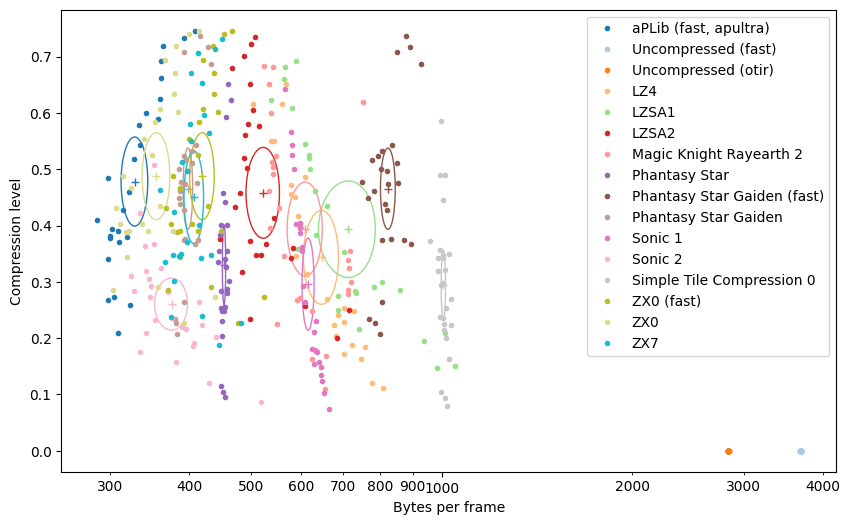
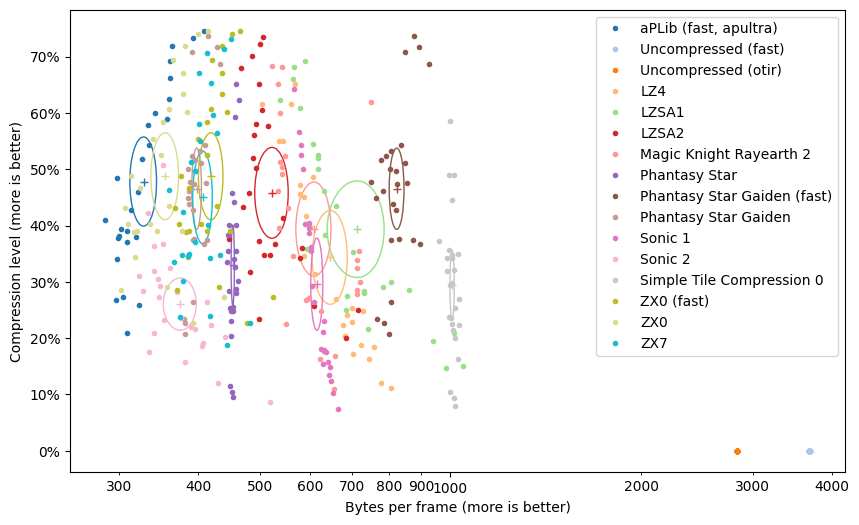
Tweaks to the graph

diff --git a/benchmark/benchmark.py b/benchmark/benchmark.py
@@ -193,12 +193,13 @@ def main():
             zorder=index+100 # dots from 100
         )
 
-    matplotlib.pyplot.xlabel("Bytes per frame")
+    matplotlib.pyplot.xlabel("Bytes per frame (more is better)")
     matplotlib.pyplot.xscale("log")
     matplotlib.pyplot.minorticks_on
     matplotlib.pyplot.gca().xaxis.set_major_formatter(matplotlib.ticker.ScalarFormatter())
     matplotlib.pyplot.gca().xaxis.set_minor_formatter(matplotlib.ticker.ScalarFormatter())
-    matplotlib.pyplot.ylabel("Compression level")
+    matplotlib.pyplot.ylabel("Compression level (more is better)")
+    matplotlib.pyplot.gca().yaxis.set_major_formatter(matplotlib.ticker.PercentFormatter(1.0))
     matplotlib.pyplot.legend()
     matplotlib.pyplot.gcf().set_figwidth(10)
     matplotlib.pyplot.gcf().set_figheight(6)
